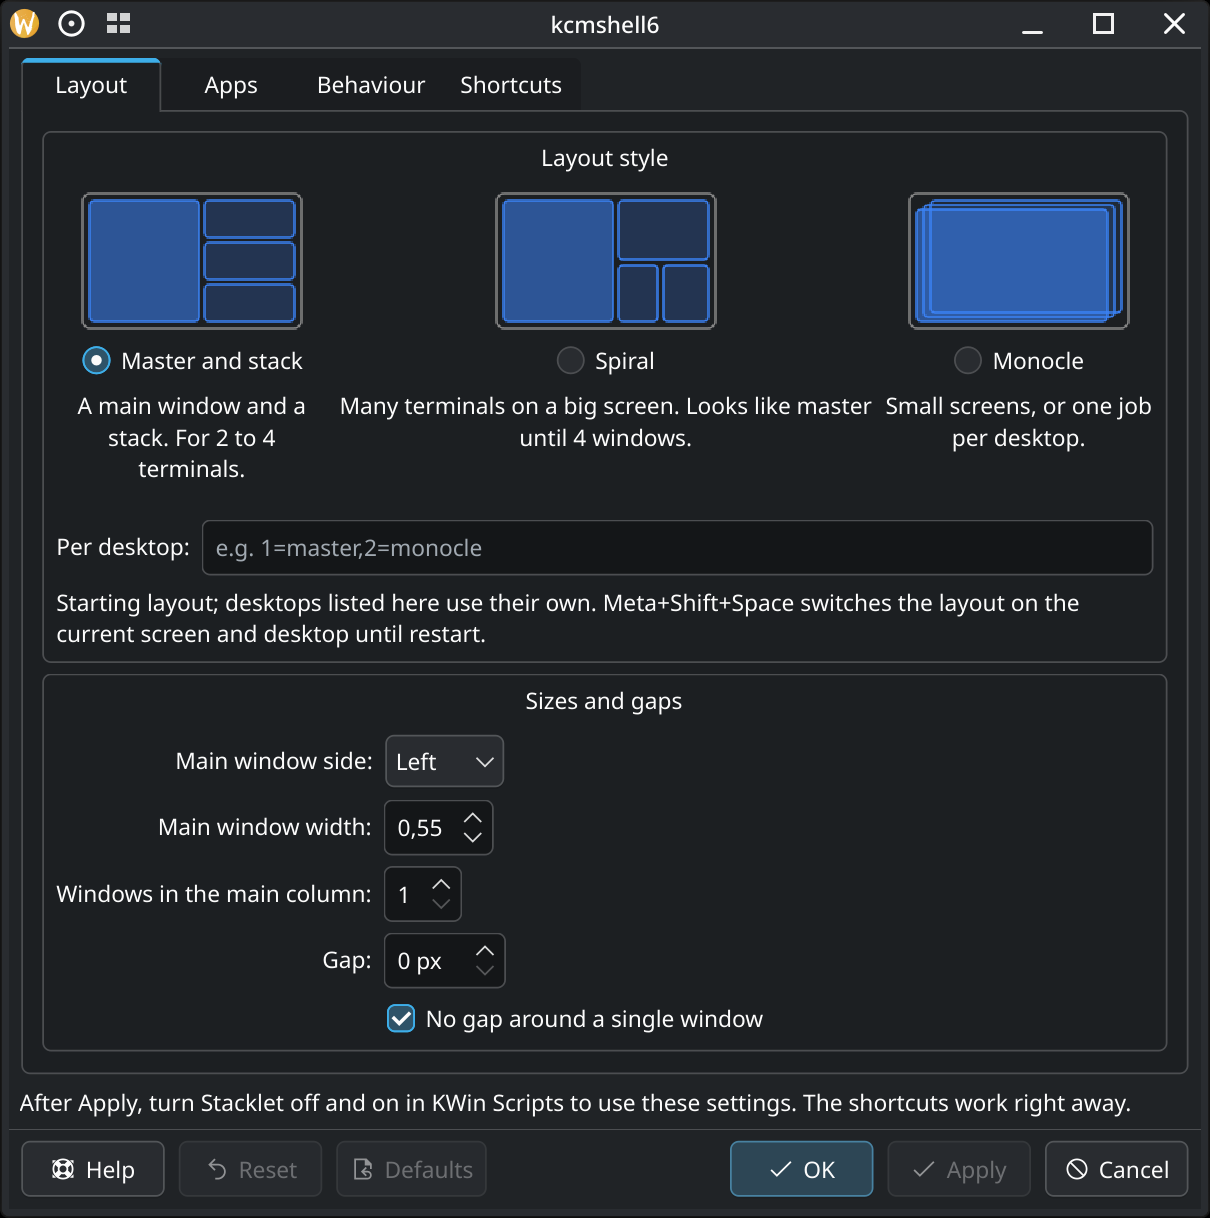
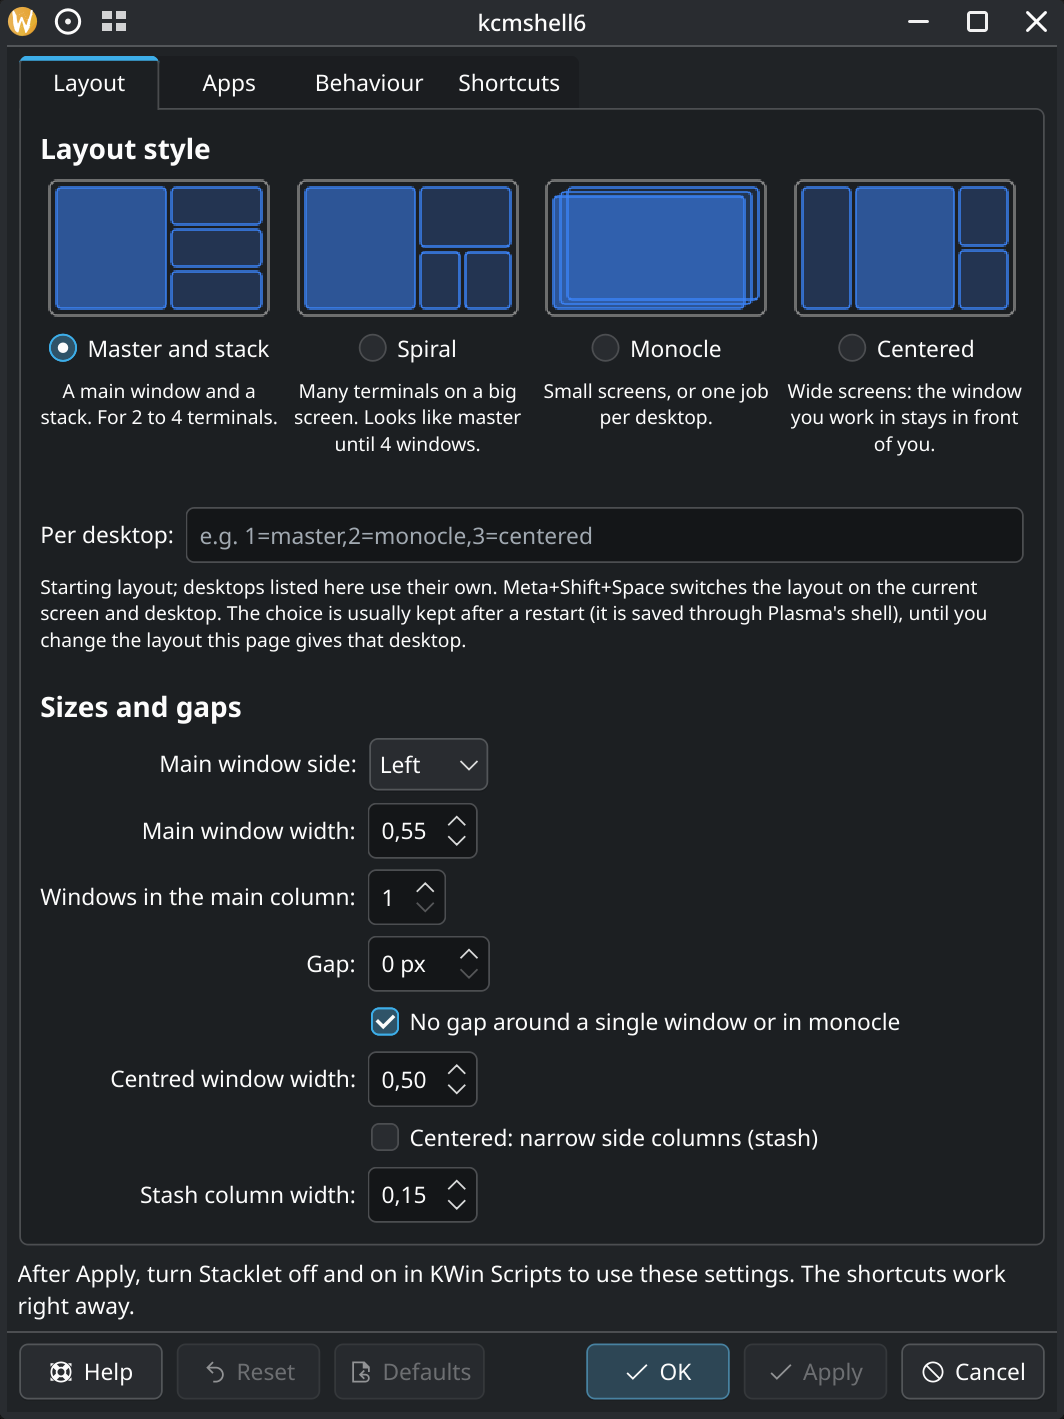
Store assets for 1.1.0: new settings screenshot, social preview tagline, listing text and changelog

diff --git a/store/listing.md b/store/listing.md
@@ -4,7 +4,7 @@ Everything to paste into the store form, plus the files to upload.
 
 ## Files to upload
 
-- **File:** `build/stacklet-1.0.1.kwinscript` (build it with `./package.sh`)
+- **File:** `build/stacklet-1.1.0.kwinscript` (build it with `./package.sh`)
 - **Screenshots:** `store/screenshot-tiling.png`, `store/screenshot-settings.png`
 - **Icon / logo:** `store/logo-256.png` (source: `store/logo.svg`)
 - **GitHub social preview:** `store/social-preview.png` (Settings → Social preview)
@@ -19,19 +19,21 @@ Stacklet
 
 ## Summary (one line)
 
-Tiling window manager for KDE Plasma 6: auto-tile your terminals on Plasma's own tiles with master and stack, spiral or monocle.
+Tiling window manager for KDE Plasma 6: auto-tile your terminals on Plasma's own tiles with master and stack, spiral, monocle or centered master, plus a scratchpad.
 
 ## Description (plain text only: the store mangles BBCode lists)
 
 Stacklet is a tiling window manager script for KDE Plasma 6 (a KWin script). It tiles the apps you choose into a main window plus a stack, and leaves everything else floating. It drives Plasma's native tiles, so resizing, Meta+T layouts and per-desktop tile layouts keep working.
 
-Three layouts, with a preview when you pick one:
+Four layouts, with a preview when you pick one:
 
 • Master and stack: a main window, the rest stacked beside it. Good for 2 to 4 terminals.
 
 • Spiral: each new window takes half of the space left. Good for many terminals on a big screen.
 
 • Monocle: one window fills the area, cycle through the others. Good for small screens, or one job per desktop.
+
+• Centered master: the main window in the middle, the others in columns on both sides. Good for wide screens. Optionally the side columns become a narrow stash of small, live windows.
 
 More
 
@@ -43,7 +45,11 @@ More
 
 • Gaps, with no gap around a lone window. Drag the border between tiles to resize.
 
-• Per-screen and per-desktop layouts, and screens or desktops where tiling stays off.
+• Per-screen and per-desktop layouts, and screens or desktops where tiling stays off. A layout switched by shortcut is usually kept after a restart.
+
+• Spotlight: the focused window in the centre, every other window in the stash. Press again to go back.
+
+• Scratchpad: hide windows and call them up centred over any desktop, one at a time.
 
 Shortcuts (all changeable in System Settings → Shortcuts → KWin)
 
@@ -63,6 +69,12 @@ Shortcuts (all changeable in System Settings → Shortcuts → KWin)
 
 • Meta+Alt+T: rotate the stack
 
+• Meta+Alt+C: spotlight on / off
+
+• Meta+S: show the next scratchpad window, or hide it
+
+• Meta+Ctrl+S: send to the scratchpad (on a shown one: put it back)
+
 • Meta+Alt+A: tile or untile this app until restart, and show its window class
 
 • Drag onto another tile: swap the two
@@ -77,6 +89,10 @@ Source and bug reports: https://github.com/aic0d3r/stacklet
 ## Tags
 
 tiling, tiling window manager, window management, kwin script, plasma 6, terminals, i3, productivity
+
+## Changelog 1.1.0
+
+New centered master layout (main window in the middle, optional narrow stash columns at the sides), in the layout cycle and per desktop as "centered". Spotlight (Meta+Alt+C): the focused window in the centre, the rest in the stash; press again to go back. Scratchpad: Meta+Ctrl+S hides a window, Meta+S shows the next one centred on top or hides it. Smart gaps also apply in monocle. Layouts switched by shortcut and dragged widths are usually kept after a restart. Settings page: bold section headings, smaller help text.
 
 ## Changelog 1.0.1
 
